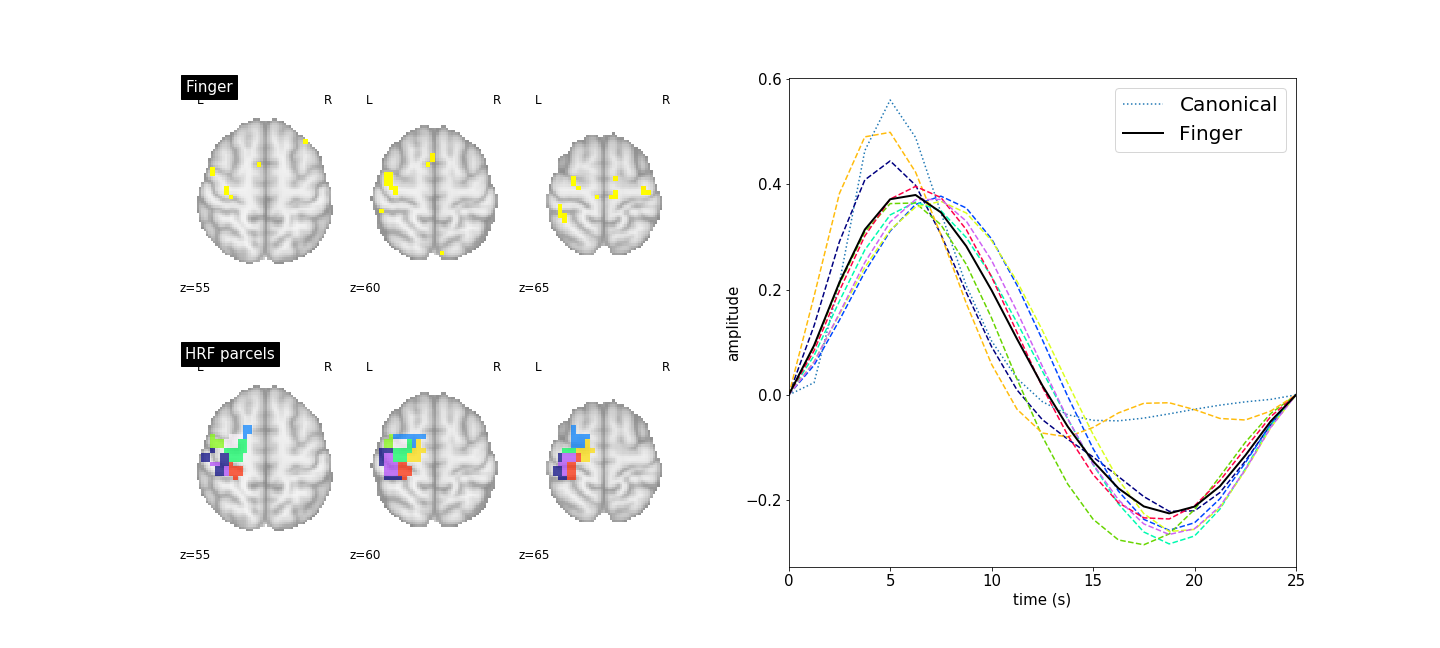
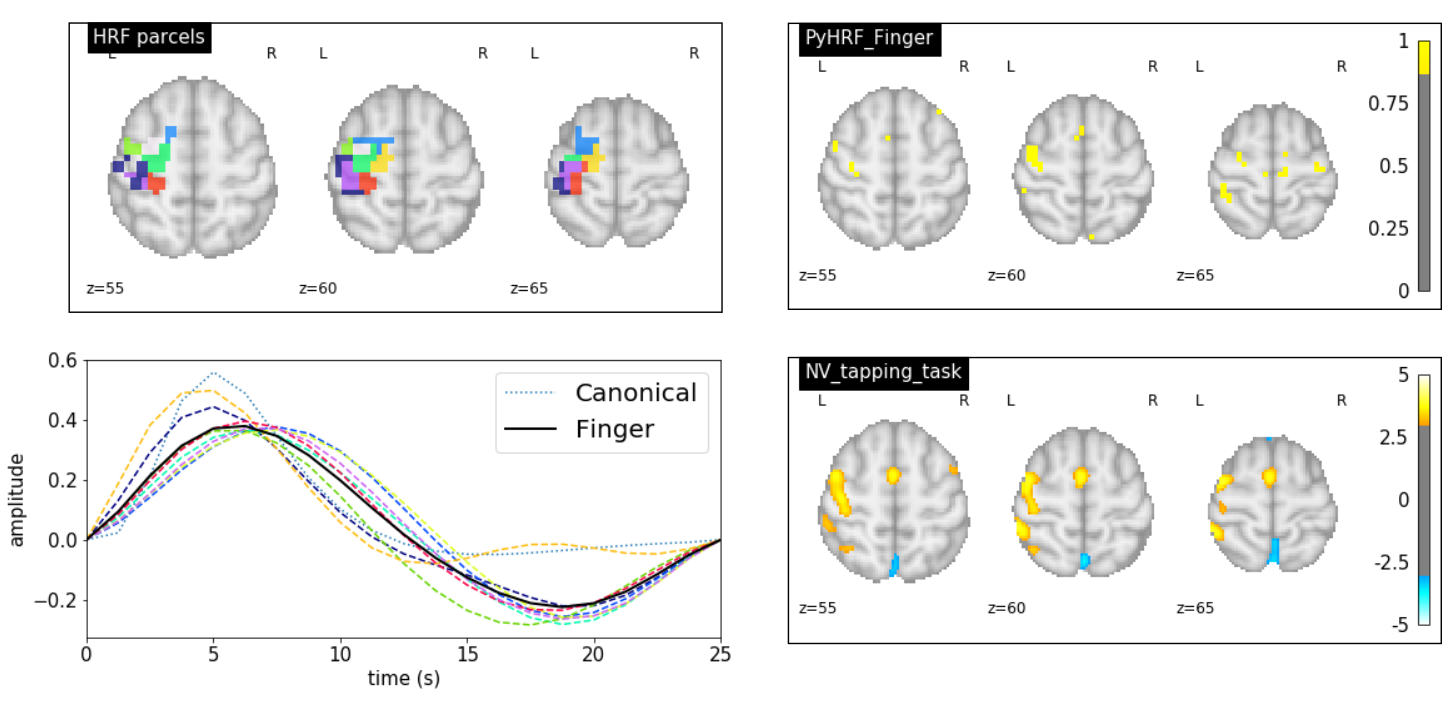
Adding color scales for the last figure

diff --git a/papers/jaime_arias/paper.rst b/papers/jaime_arias/paper.rst
@@ -525,8 +525,8 @@ the description given in :cite:`Gorgolewski2013`, this task corresponds to
 finger tapping. Recall that PyHRF estimates a HRF for each parcel and generates
 a PPM for each condition.
 
-We compared the output of PyHRF with the unthresholded statistical maps shared
-on the site *Neurovault* (http://www.neurovault.org/images/307/) for the same
+We compared the output of PyHRF with the thresholded statistical maps shared on
+the site *Neurovault* (http://www.neurovault.org/images/307/) for the same
 dataset and same task (see Fig. :ref:`output`).  While the experimental
 paradigm is not optimized for JDE (standard block paradigm is not ideal to
 estimate different points of the HRF course), we obtained similar results to
@@ -536,13 +536,13 @@ similar, showing an activation in the *supplementary motor area* and the *left
 primary sensorimotor cortex*.
 
 
-.. figure:: figures/pyhrf_neurovault.png
+.. figure:: figures/pyhrf_output.png
    :align: center
    :scale: 40%
    :figclass: w
 
    A) Active parcels, B) PPMs, and C) estimated HRFs generated by PyHRF for the
-   dataset ``ds000114`` and the finger tapping task. D) Shows the unthresholded
+   dataset ``ds000114`` and the finger tapping task. D) Shows the thresholded
    statistical maps shared on the site ``Neurovault`` for the same dataset and
    task. The cut z=60 shows a high activation in the *supplementary motor area*
    and the *left primary sensorimotor cortex*. :label:`output`
